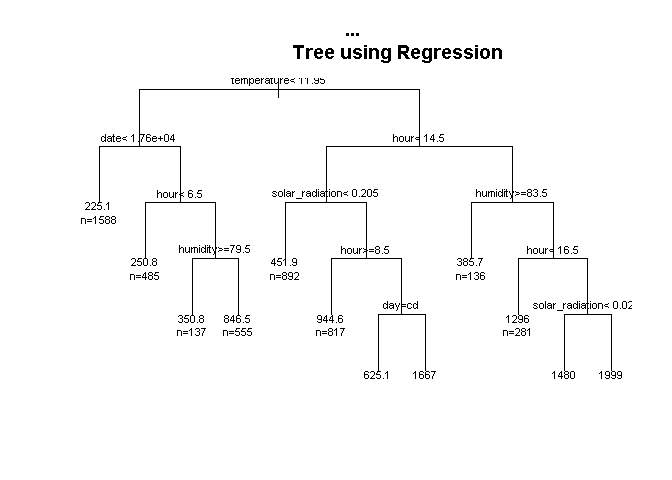
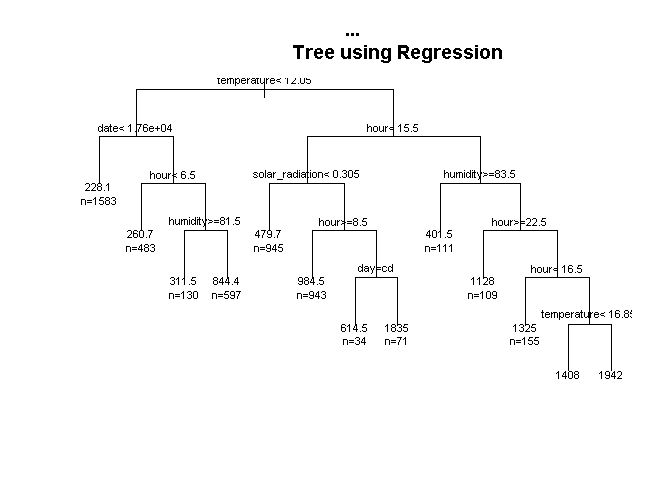
hi

diff --git a/SeoulBikeRent/SeoulBikeRent.md b/SeoulBikeRent/SeoulBikeRent.md
@@ -2,7 +2,7 @@ Seoul bike rent analysis (still in progress)
 ================
 Rokas
 
-Last compiled on 17 June, 2022
+Last compiled on 18 June, 2022
 
 <style>
 body {
@@ -102,7 +102,7 @@ library(rstatix)  #for outliers identification
 
 ## Exploratory analysis
 
-Reading a file as a data.table and checking its structure and summary
+Reading a file as a data frame and checking its structure and summary
 
 ``` r
 seoul_bike <- read.csv("raw_seoul_bike_sharing.csv")
@@ -165,8 +165,8 @@ summary(seoul_bike)
 Data frame consists of `14` variables or columns and `8760` observations
 or rows. Let’s look for `NA` values first and remove them by saving it
 in the new data frame. There are `295` NA values of
-`RENTED_BIKE_COlUMN`, and `11` `NA` values of `TEMPERATURE`. We can
-remove them
+`RENTED_BIKE_COlUMN`, and `11 NA` values of `TEMPERATURE`. I can remove
+them.
 
 ``` r
 sapply(seoul_bike, function(x) sum(is.na(x)))
@@ -222,11 +222,10 @@ names(clean_bike)
 
 By using a `lubridate` package date is converted from char format to
 date format with `dmy` function.(day/month/year). Also categorical
-variable
-`holiday' is changed to numerical values for calculations and`seasons’
-names are changed to factors. New variable `day` added to `clean_bike`
-data frame to name weekdays for analysis. Weekdays are converted to
-factors as well.
+variable `holiday` is changed to numerical values for calculations and
+`seasons` names are changed to factors. New variable `day` added to
+`clean_bike` data frame to name weekdays for analysis. Weekdays are
+converted to factors as well.
 
 ``` r
 clean_bike$date <- dmy(clean_bike$date)
@@ -244,9 +243,9 @@ clean_bike$day <- as.factor(clean_bike$day)
 ```
 
 By using `table` function it is possible now to count all the values. It
-is clear now that ‘functioning day’ has only 1 value. It means that
+is clear now that `functioning day` has only 1 value. It means that
 bikes are rented in Seoul any time of the year and any time of the day.
-So we can remove this variable from the data frame ‘clean_bike’.
+So I can remove this variable from the `clean_bike` data frame .
 
 ``` r
 table(clean_bike$functioning_day)
@@ -304,10 +303,10 @@ clean_bike <- clean_bike %>% select(-functioning_day)
 
 Now I can calculate correlation and look for variables that correlate
 the most with `rented_bike_count`. In other words, we are looking for
-the most paramount factors for bike rent. Also ‘dew_point_temperature’
+the most paramount factors for bike rent. Also `dew_point_temperature`
 is removed because it highly correlates with temperature and for
-predictive analysis it won’t be useful. One ‘temperature’ variable is
-enough for analysis. It can be seen that
+predictive analysis it won’t be useful. One `temperature` variable is
+enough for analysis.
 
 ``` r
 corrplot(cor(clean_bike[c(2:11)]),type = "upper",col=COL2("RdBu",100))
@@ -320,8 +319,9 @@ clean_bike <- clean_bike %>% select(-dew_point_temperature)
 ```
 
 With the help of `grouping`, `average_bike_rent_coount` and
-’average_temperature`is calculated per month and year since there is one month of 2017. The most bikes were rented during June`n=1237`and September`n=1079`and temperatures 'T1=23.1' and`T2=21.7\`
-accordingly.
+`average_temperature` is calculated per month and year since there is
+one month of 2017. The most bikes were rented during June `n=1237` and
+September `n=1079` and temperatures `T1=23.1` and `T2=21.7` accordingly.
 
 ``` r
 rent_by_year <- clean_bike %>%
@@ -453,8 +453,14 @@ scale_x_continuous(breaks=seq(0,23,2))+ facet_wrap(~day) + theme(legend.position
 
 ![](SeoulBikeRent_files/figure-gfm/hour-c-1.png)<!-- -->
 
-Moving on, there is obviuos correlation between temperature and bike
-rent \# Temperature
+Moving on, there is obvious correlation between temperature and bike
+rent that already has been shown in the table and seasonal bike rent
+graph. Temperature distribution is closest to the normal distribution,
+it is visible in the `histogram`. in the scatter plot of `temperature`
+vs `rented_bike_count` with the help of fitting nonlinear line with
+`smooth` function, a clear trend is observed of rent numbers rising
+until temperature of around 29 degrees is reached and after that line
+starts going down pretty rapidly due to hot weather. \# Temperature
 
 ``` r
 hist(clean_bike$temperature  ,xlab= "Temperature", main= "Temperature distribution", xaxp = c(-20,40,24) )
@@ -470,18 +476,42 @@ summary(clean_bike$temperature)
     ##  -17.80    3.00   13.40   12.75   22.60   39.40
 
 ``` r
-ggplot(clean_bike, aes(temperature, rented_bike_count)) + geom_point() + ylim(0,4000)
+ggplot(clean_bike, aes(temperature, rented_bike_count)) + geom_point() + ylim(0,4000) +geom_smooth()
 ```
+
+    ## `geom_smooth()` using method = 'gam' and formula 'y ~ s(x, bs = "cs")'
 
 ![](SeoulBikeRent_files/figure-gfm/temp-2.png)<!-- -->
 
+\#humidity
+
+`Humidity` distribution is a little bit more left-skewed compared to
+‘temperature’s’ one but it still close to normal distribution. So mean
+as a metric will be used for analysis of high and low humidity marked as
+a red line in the `histogram`. New variable `higher` is created inspect
+how rent numbers numbers alter when humidity is higher then average and
+lower and the data is saved in the new data frame hum.
+`Rented_bike_count` decreases the closer humidity approaches 100 percent
+humidity.
+
 ``` r
-ggplot(clean_bike, aes(hour, temperature)) + geom_boxplot() 
+hist(clean_bike$humidity  ,xlab= "Humidity", main= "Humidity distribution" )
+abline(v = mean(clean_bike$humidity),                       
+       col = "red",
+       lwd = 3)
 ```
 
-    ## Warning: Continuous x aesthetic -- did you forget aes(group=...)?
+![](SeoulBikeRent_files/figure-gfm/hum-1.png)<!-- -->
 
-![](SeoulBikeRent_files/figure-gfm/temp-3.png)<!-- -->
+``` r
+hum <- clean_bike %>%
+  mutate(higher_humidity= humidity > median(humidity))
+ hum$higher_humidity<- as.factor(ifelse(hum$higher == TRUE, "High", "Low"))
+
+ggplot(hum, aes(humidity, rented_bike_count, color = higher_humidity)) + geom_point() + facet_wrap(~seasons)
+```
+
+![](SeoulBikeRent_files/figure-gfm/hum-2.png)<!-- -->
 
 ## Modeling analysis
 
@@ -509,13 +539,13 @@ glimpse(train)
     ## Rows: 5,916
     ## Columns: 13
     ## $ date              <date> 2017-12-01, 2017-12-01, 2017-12-01, 2017-12-01, 201~
-    ## $ rented_bike_count <int> 254, 204, 107, 78, 100, 181, 460, 490, 339, 360, 449~
-    ## $ hour              <int> 0, 1, 3, 4, 5, 6, 7, 9, 10, 11, 12, 13, 16, 17, 19, ~
-    ## $ temperature       <dbl> -5.2, -5.5, -6.2, -6.0, -6.4, -6.6, -7.4, -6.5, -3.5~
-    ## $ humidity          <int> 37, 38, 40, 36, 37, 35, 38, 27, 24, 21, 23, 25, 54, ~
-    ## $ wind_speed        <dbl> 2.2, 0.8, 0.9, 2.3, 1.5, 1.3, 0.9, 0.5, 1.2, 1.3, 1.~
-    ## $ visibility        <int> 2000, 2000, 2000, 2000, 2000, 2000, 2000, 1928, 1996~
-    ## $ solar_radiation   <dbl> 0.00, 0.00, 0.00, 0.00, 0.00, 0.00, 0.00, 0.23, 0.65~
+    ## $ rented_bike_count <int> 173, 107, 78, 100, 181, 460, 490, 339, 360, 447, 463~
+    ## $ hour              <int> 2, 3, 4, 5, 6, 7, 9, 10, 11, 14, 15, 16, 17, 18, 19,~
+    ## $ temperature       <dbl> -6.0, -6.2, -6.0, -6.4, -6.6, -7.4, -6.5, -3.5, -0.5~
+    ## $ humidity          <int> 39, 40, 36, 37, 35, 38, 27, 24, 21, 26, 36, 54, 58, ~
+    ## $ wind_speed        <dbl> 1.0, 0.9, 2.3, 1.5, 1.3, 0.9, 0.5, 1.2, 1.3, 2.0, 3.~
+    ## $ visibility        <int> 2000, 2000, 2000, 2000, 2000, 2000, 1928, 1996, 1936~
+    ## $ solar_radiation   <dbl> 0.00, 0.00, 0.00, 0.00, 0.00, 0.00, 0.23, 0.65, 0.94~
     ## $ rainfall          <dbl> 0, 0, 0, 0, 0, 0, 0, 0, 0, 0, 0, 0, 0, 0, 0, 0, 0, 0~
     ## $ snowfall          <dbl> 0, 0, 0, 0, 0, 0, 0, 0, 0, 0, 0, 0, 0, 0, 0, 0, 0, 0~
     ## $ seasons           <fct> Winter, Winter, Winter, Winter, Winter, Winter, Wint~
@@ -577,29 +607,31 @@ treem
     ## node), split, n, deviance, yval
     ##       * denotes terminal node
     ## 
-    ##  1) root 5916 2442319000  726.2262  
-    ##    2) temperature< 11.95 2765  325314500  360.5631  
-    ##      4) date< 17595.5 1588   35963090  225.0926 *
-    ##      5) date>=17595.5 1177  220888000  543.3390  
-    ##       10) hour< 6.5 485   14034650  250.8165 *
-    ##       11) hour>=6.5 692  136265300  748.3584  
-    ##         22) humidity>=79.5 137   17846710  350.8467 *
-    ##         23) humidity< 79.5 555   91426730  846.4829 *
-    ##    3) temperature>=11.95 3151 1422880000 1047.0950  
-    ##      6) hour< 14.5 1853  413780400  738.2607  
-    ##       12) solar_radiation< 0.205 892  101407700  451.9114 *
-    ##       13) solar_radiation>=0.205 961  171343500 1004.0500  
-    ##         26) hour>=8.5 817   95087750  944.6340 *
-    ##         27) hour< 8.5 144   57007650 1341.1530  
-    ##           54) day=Saturday,Sunday 45    1135800  625.0889 *
-    ##           55) day=Friday,Monday,Thursday,Tuesday,Wednesday 99   22310200 1666.6360 *
-    ##      7) hour>=14.5 1298  580056600 1487.9820  
-    ##       14) humidity>=83.5 136   28344820  385.6838 *
-    ##       15) humidity< 83.5 1162  367123000 1616.9940  
-    ##         30) hour< 16.5 281   50604570 1296.3560 *
-    ##         31) hour>=16.5 881  278414800 1719.2630  
-    ##           62) solar_radiation< 0.025 475   89115720 1480.4380 *
-    ##           63) solar_radiation>=0.025 406  130508900 1998.6770 *
+    ##   1) root 5916 2447684000.0  730.8867  
+    ##     2) temperature< 12.05 2793  339977600.0  369.3580  
+    ##       4) date< 17595.5 1583   38558320.0  228.1074 *
+    ##       5) date>=17595.5 1210  228515900.0  554.1512  
+    ##        10) hour< 6.5 483   15466590.0  260.7350 *
+    ##        11) hour>=6.5 727  143839700.0  749.0894  
+    ##          22) humidity>=81.5 130   15002090.0  311.5385 *
+    ##          23) humidity< 81.5 597   98529380.0  844.3685 *
+    ##     3) temperature>=12.05 3123 1416174000.0 1054.2140  
+    ##       6) hour< 15.5 1993  446504200.0  769.1274  
+    ##        12) solar_radiation< 0.305 945  116569800.0  479.7312 *
+    ##        13) solar_radiation>=0.305 1048  179425000.0 1030.0810  
+    ##          26) hour>=8.5 943  112192400.0  984.4846 *
+    ##          27) hour< 8.5 105   47664510.0 1439.5810  
+    ##            54) day=Saturday,Sunday 34     662478.5  614.4706 *
+    ##            55) day=Friday,Monday,Thursday,Tuesday,Wednesday 71   12769900.0 1834.7040 *
+    ##       7) hour>=15.5 1130  522005000.0 1557.0250  
+    ##        14) humidity>=83.5 111   23519690.0  401.5135 *
+    ##        15) humidity< 83.5 1019  334133100.0 1682.8950  
+    ##          30) hour>=22.5 109    8207008.0 1127.5960 *
+    ##          31) hour< 22.5 910  288289300.0 1749.4090  
+    ##            62) hour< 16.5 155   31014180.0 1325.1940 *
+    ##            63) hour>=16.5 755  223655000.0 1836.4990  
+    ##             126) temperature< 16.85 149   30246520.0 1407.7380 *
+    ##             127) temperature>=16.85 606  159282000.0 1941.9210 *
 
 ``` r
 plot(treem, uniform = TRUE,
@@ -650,7 +682,7 @@ eval_results(train$rented_bike_count, predictions_train_cart, train)
 ```
 
     ##       RMSE   Rsquare
-    ## 1 338.4795 0.7224823
+    ## 1 334.5196 0.7295319
 
 ``` r
 # Step 3 - predicting and evaluating the model on test data
@@ -661,8 +693,8 @@ predictions_test_cart = predict(treem, newdata = test)
 eval_results(test$rented_bike_count, predictions_test_cart, test)
 ```
 
-    ##       RMSE   Rsquare
-    ## 1 348.2712 0.7019746
+    ##       RMSE  Rsquare
+    ## 1 347.6015 0.701542
 
 # gam model
 
@@ -675,31 +707,31 @@ summary(GAMsm)
     ## Call: gam(formula = rented_bike_count ~ ., data = train)
     ## Deviance Residuals:
     ##      Min       1Q   Median       3Q      Max 
-    ## -1123.57  -275.51   -55.04   207.51  1991.35 
+    ## -1133.86  -272.86   -54.97   205.55  2223.01 
     ## 
-    ## (Dispersion Parameter for gaussian family taken to be 183764.2)
+    ## (Dispersion Parameter for gaussian family taken to be 185205)
     ## 
-    ##     Null Deviance: 2442318597 on 5915 degrees of freedom
-    ## Residual Deviance: 1083473838 on 5896 degrees of freedom
-    ## AIC: 88521.1 
+    ##     Null Deviance: 2447684248 on 5915 degrees of freedom
+    ## Residual Deviance: 1091968478 on 5896 degrees of freedom
+    ## AIC: 88567.3 
     ## 
     ## Number of Local Scoring Iterations: 2 
     ## 
     ## Anova for Parametric Effects
     ##                   Df     Sum Sq   Mean Sq   F value    Pr(>F)    
-    ## date               1  378079494 378079494 2057.4163 < 2.2e-16 ***
-    ## hour               1  439583320 439583320 2392.1051 < 2.2e-16 ***
-    ## temperature        1  306712074 306712074 1669.0522 < 2.2e-16 ***
-    ## humidity           1  133419960 133419960  726.0388 < 2.2e-16 ***
-    ## wind_speed         1     141264    141264    0.7687 0.3806486    
-    ## visibility         1    2703399   2703399   14.7112 0.0001266 ***
-    ## solar_radiation    1   13100663  13100663   71.2906 < 2.2e-16 ***
-    ## rainfall           1   31476907  31476907  171.2896 < 2.2e-16 ***
-    ## snowfall           1     201408    201408    1.0960 0.2951858    
-    ## seasons            3   40159360  13386453   72.8458 < 2.2e-16 ***
-    ## holiday            1    4148358   4148358   22.5744 2.070e-06 ***
-    ## day                6    9118553   1519759    8.2702 6.115e-09 ***
-    ## Residuals       5896 1083473838    183764                        
+    ## date               1  384797503 384797503 2077.6846 < 2.2e-16 ***
+    ## hour               1  431507508 431507508 2329.8917 < 2.2e-16 ***
+    ## temperature        1  305663840 305663840 1650.4084 < 2.2e-16 ***
+    ## humidity           1  125530117 125530117  677.7902 < 2.2e-16 ***
+    ## wind_speed         1     106050    106050    0.5726 0.4492543    
+    ## visibility         1    2189022   2189022   11.8195 0.0005902 ***
+    ## solar_radiation    1   15562287  15562287   84.0274 < 2.2e-16 ***
+    ## rainfall           1   29922522  29922522  161.5644 < 2.2e-16 ***
+    ## snowfall           1     233551    233551    1.2610 0.2615003    
+    ## seasons            3   42415814  14138605   76.3403 < 2.2e-16 ***
+    ## holiday            1    3413869   3413869   18.4329 1.788e-05 ***
+    ## day                6   14373687   2395615   12.9349 1.398e-14 ***
+    ## Residuals       5896 1091968478    185205                        
     ## ---
     ## Signif. codes:  0 '***' 0.001 '**' 0.01 '*' 0.05 '.' 0.1 ' ' 1
 
@@ -727,7 +759,7 @@ print(model_gbm)
     ##     n.cores = NULL)
     ## A gradient boosted model with gaussian loss function.
     ## 5000 iterations were performed.
-    ## The best cross-validation iteration was 4998.
+    ## The best cross-validation iteration was 5000.
     ## There were 10 predictors of which 10 had non-zero influence.
 
 ``` r
@@ -736,7 +768,7 @@ perf_gbm1 = gbm.perf(model_gbm, method = "cv")
 print(perf_gbm1)
 ```
 
-    ## [1] 4998
+    ## [1] 5000
 
 ``` r
 bike_prediction_1 <- stats::predict(
@@ -754,7 +786,7 @@ rmse_fit1 <- Metrics::rmse(actual = test$rented_bike_count,
 print(rmse_fit1)
 ```
 
-    ## [1] 253.8354
+    ## [1] 253.6741
 
 ``` r
 min_MSE <- which.min(model_gbm$cv.error)
@@ -763,7 +795,7 @@ min_MSE <- which.min(model_gbm$cv.error)
 sqrt(model_gbm$cv.error[min_MSE])
 ```
 
-    ## [1] 250.9272
+    ## [1] 251.7518
 
 ``` r
 ## [1] 23112.1
@@ -774,7 +806,7 @@ gbm.perf( model_gbm, method = "cv")
 
 ![](SeoulBikeRent_files/figure-gfm/GBM-1.png)<!-- -->
 
-    ## [1] 4998
+    ## [1] 5000
 
 # XGboost
 
